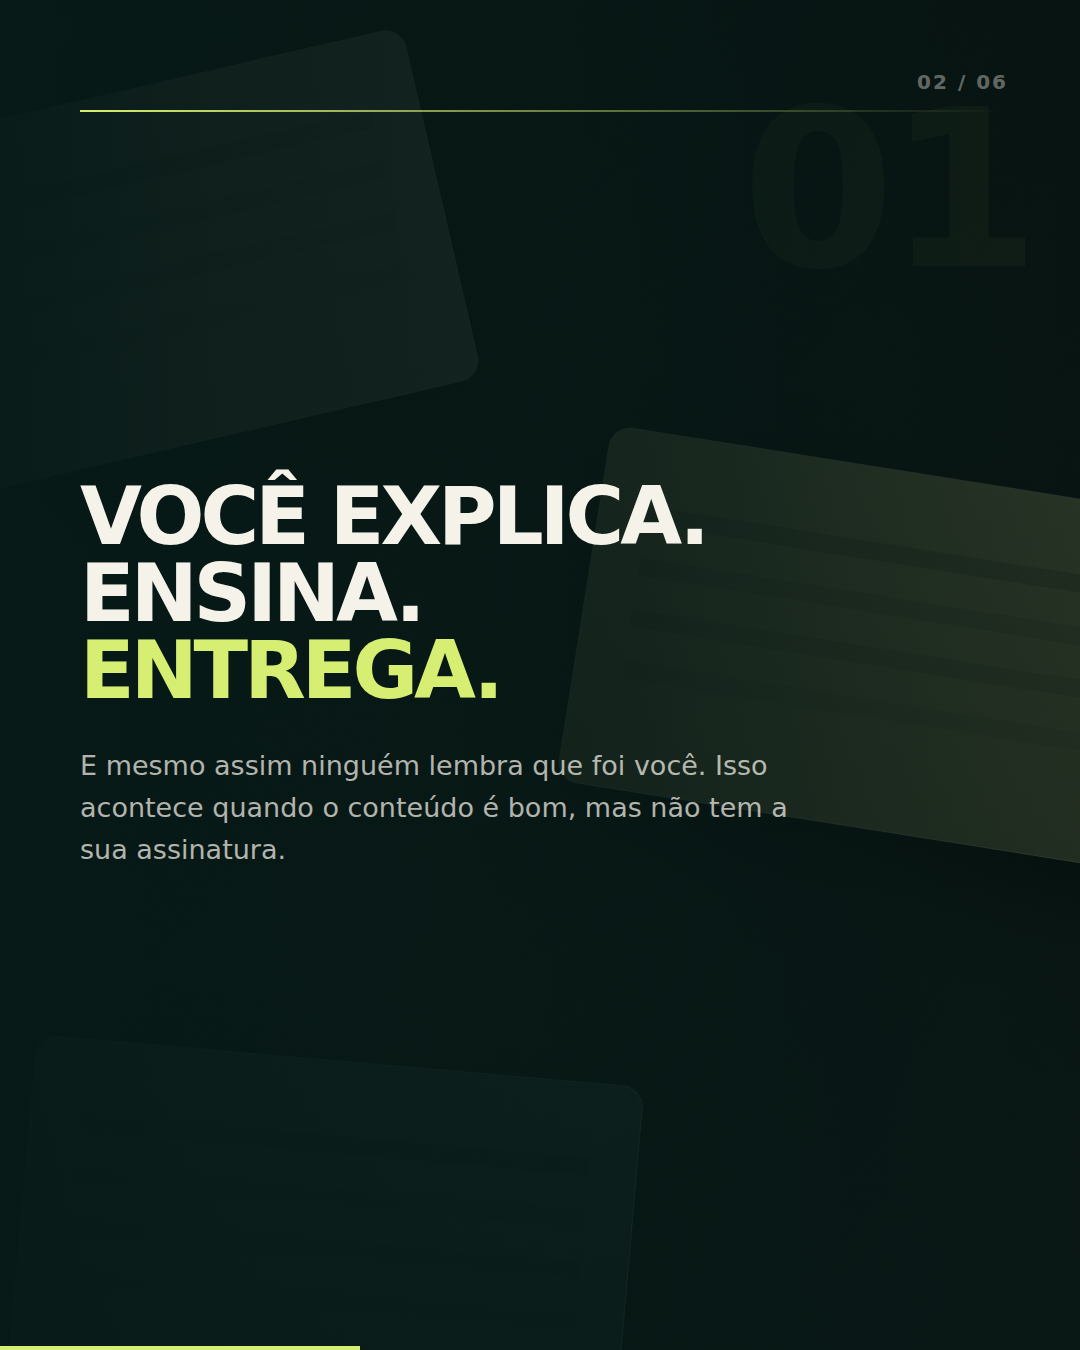
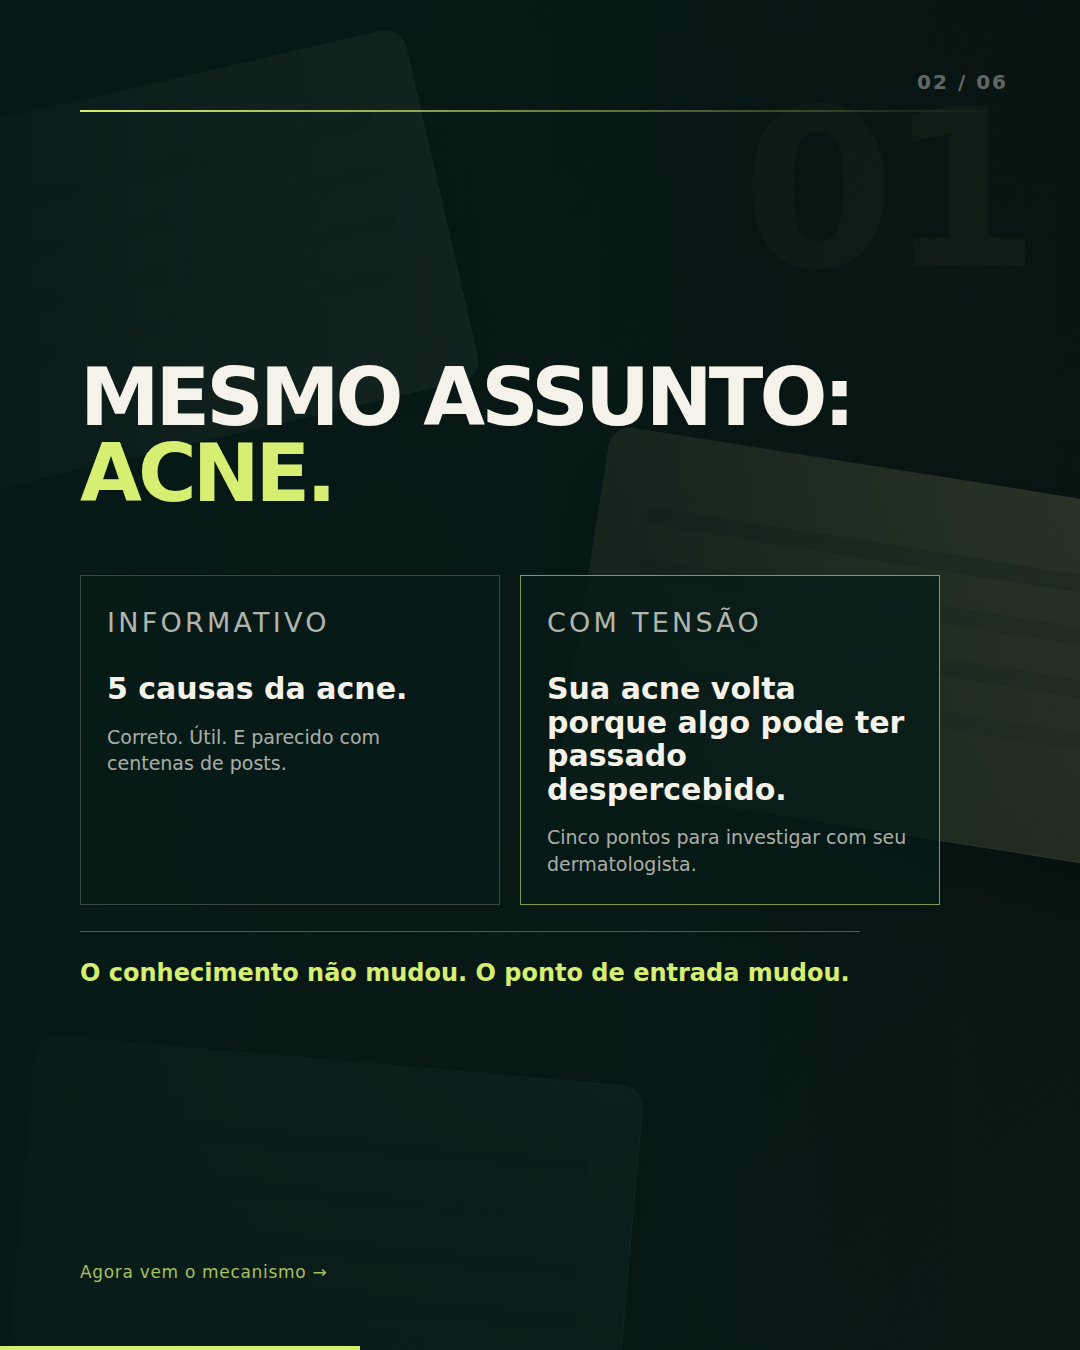
feat: adapta carrossel ao post de maior resposta

diff --git a/assets/posts/c3-carousel/slides.html b/assets/posts/c3-carousel/slides.html
@@ -58,7 +58,7 @@
   .cnt{position:relative;z-index:3;display:flex;flex-direction:column;height:100%}
 
   /* ─── SLIDE 1 — CAPA ─── */
-  #s1 .bg{background-image:url('../../media/generated/editorial-bg-04.png');filter:brightness(.46) saturate(.72)}
+  #s1 .bg{background-image:url('../../media/generated/editorial-bg-01.png');filter:brightness(.42) saturate(.72)}
   #s1 .overlay{background:linear-gradient(180deg,rgba(7,26,23,.08) 0%,rgba(7,26,23,.15) 30%,rgba(7,26,23,.88) 68%,#071a17 100%)}
   #s1 .lime-rule{bottom:230px}
   #s1 .cnt{justify-content:flex-end;padding:0 80px 100px}
@@ -114,9 +114,41 @@
   #s6 .lime-rule{top:115px}
   #s6 .cnt{justify-content:center;align-items:flex-start;padding:0 80px}
   #s6 .pergunta{font-family:MedSans,sans-serif;font-weight:900;font-size:88px;line-height:.95;letter-spacing:-4px;color:#d6ef72;text-transform:uppercase;margin-bottom:44px}
-  #s6 .resp{font-family:MedSans,sans-serif;font-size:27px;line-height:1.6;color:rgba(245,242,233,.72);max-width:740px;margin-bottom:60px}
+  #s6 .resp{font-family:MedSans,sans-serif;font-size:27px;line-height:1.6;color:rgba(245,242,233,.72);max-width:740px;margin-bottom:28px}
   #s6 .sig{font-family:MedSans,sans-serif;font-size:18px;letter-spacing:.04em;color:rgba(245,242,233,.72)}
   #s6 .sig strong{color:rgba(245,242,233,.8);font-weight:500}
+
+  /* Conteúdo denso, com progressão baseada no post de maior resposta pública da referência. */
+  .bullets{list-style:none;margin:28px 0 30px;display:grid;gap:14px;max-width:780px}
+  .bullets li{font-family:MedSans,sans-serif;font-size:24px;line-height:1.35;color:#f5f2e9;padding-left:34px;position:relative}
+  .bullets li::before{content:'•';position:absolute;left:4px;color:#d6ef72;font-weight:900}
+  .takeaway{font-family:MedSans,sans-serif;font-size:24px;line-height:1.45;color:#d6ef72;font-weight:700;max-width:780px;border-top:1px solid rgba(214,239,114,.35);padding-top:24px}
+  #s3 h3,#s4 h3,#s5 h3{font-size:68px}
+  .compare{display:grid;grid-template-columns:1fr 1fr;border:1px solid rgba(245,242,233,.26);max-width:850px;margin:10px 0 28px}
+  .compare div{font-family:MedSans,sans-serif;font-size:20px;line-height:1.25;color:rgba(245,242,233,.8);padding:16px 18px;border-bottom:1px solid rgba(245,242,233,.16)}
+  .compare div:nth-child(odd){border-right:1px solid rgba(245,242,233,.16);color:#d6ef72;font-weight:700}
+  .compare .head{font-size:16px;text-transform:uppercase;letter-spacing:.08em;color:#f5f2e9!important;background:rgba(245,242,233,.08)}
+  .leaks{display:grid;gap:18px;margin:28px 0 32px;max-width:790px}
+  .leak{display:grid;grid-template-columns:52px 1fr;align-items:center;gap:16px;font-family:MedSans,sans-serif;font-size:24px;line-height:1.35;color:#f5f2e9}
+  .leak b{display:grid;place-items:center;width:48px;height:48px;border:1px solid #d6ef72;border-radius:50%;color:#d6ef72;font-size:20px}
+  .system-grid{display:grid;grid-template-columns:1fr 1fr;gap:16px;max-width:840px;margin:20px 0 26px}
+  .system-card{background:rgba(7,26,23,.72);border:1px solid rgba(214,239,114,.3);padding:20px 22px;min-height:142px}
+  .system-card strong{display:block;font-family:MedSans,sans-serif;font-size:24px;color:#d6ef72;margin-bottom:8px}
+  .system-card span{font-family:MedSans,sans-serif;font-size:19px;line-height:1.35;color:rgba(245,242,233,.78)}
+  .versus{display:grid;grid-template-columns:1fr 1fr;gap:20px;max-width:860px;margin:26px 0}
+  .vcard{padding:26px;background:rgba(7,26,23,.76);border:1px solid rgba(245,242,233,.22);min-height:300px}
+  .vcard.good{border-color:rgba(214,239,114,.6)}
+  .vcard .vtag{font-family:MedSans,sans-serif;font-size:15px;letter-spacing:.12em;text-transform:uppercase;color:rgba(245,242,233,.55);margin-bottom:28px}
+  .vcard.good .vtag{color:#d6ef72}
+  .vcard strong{display:block;font-family:MedSans,sans-serif;font-size:30px;line-height:1.12;color:#f5f2e9}
+  .vcard span{display:block;font-family:MedSans,sans-serif;font-size:19px;line-height:1.4;color:rgba(245,242,233,.7);margin-top:18px}
+  .examples{display:grid;grid-template-columns:1fr 1.25fr;max-width:860px;border:1px solid rgba(245,242,233,.2);margin:22px 0 28px}
+  .examples div{font-family:MedSans,sans-serif;font-size:18px;line-height:1.3;padding:15px 17px;border-bottom:1px solid rgba(245,242,233,.14)}
+  .examples div:nth-child(odd){color:rgba(245,242,233,.55);border-right:1px solid rgba(245,242,233,.14)}
+  .examples div:nth-child(even){color:#f5f2e9}
+  .examples .head{font-size:14px;letter-spacing:.1em;text-transform:uppercase;color:#d6ef72!important;background:rgba(214,239,114,.06)}
+  .next-hint{position:absolute;left:80px;bottom:68px;font-family:MedSans,sans-serif;font-size:17px;letter-spacing:.04em;color:rgba(214,239,114,.78)}
+  .cta{font-family:MedSans,sans-serif;font-size:23px;line-height:1.4;font-weight:700;color:#d6ef72;max-width:760px;margin-bottom:40px}
 </style>
 </head>
 <body>
@@ -129,8 +161,8 @@
   <div class="num">01 / 06</div>
   <div class="cnt">
     <p class="label">MedCrivo · De médico para médico</p>
-    <h2>Você explica<br>bem. Mas<br><em>parece igual.</em></h2>
-    <p>Se qualquer médico poderia assinar, ninguém vai lembrar que foi você.</p>
+    <h2>Carrossel médico<br>que informa.<br><em>Vs. o que prende.</em></h2>
+    <p>Mesmo tema. Outra entrada. E uma diferença enorme na vontade de continuar.</p>
   </div>
   <div class="progress" style="width:16.6%"></div>
   <button style="opacity:.25;cursor:default">← anterior</button>
@@ -145,8 +177,13 @@
   <div class="lime-rule"></div>
   <div class="num">02 / 06</div>
   <div class="cnt">
-    <h3>Você explica.<br>Ensina.<br><em>Entrega.</em></h3>
-    <p>E mesmo assim ninguém lembra que foi você. Isso acontece quando o conteúdo é bom, mas não tem a sua assinatura.</p>
+    <h3>Mesmo assunto:<br><em>acne.</em></h3>
+    <div class="versus">
+      <div class="vcard"><p class="vtag">Informativo</p><strong>5 causas da acne.</strong><span>Correto. Útil. E parecido com centenas de posts.</span></div>
+      <div class="vcard good"><p class="vtag">Com tensão</p><strong>Sua acne volta porque algo pode ter passado despercebido.</strong><span>Cinco pontos para investigar com seu dermatologista.</span></div>
+    </div>
+    <div class="takeaway">O conhecimento não mudou. O ponto de entrada mudou.</div>
+    <div class="next-hint">Agora vem o mecanismo →</div>
   </div>
   <div class="progress" style="width:33.3%"></div>
   <button onclick="show(i-1)">← anterior</button>
@@ -160,8 +197,15 @@
   <div class="lime-rule"></div>
   <div class="num">03 / 06</div>
   <div class="cnt">
-    <h3>Qualquer<br>médico poderia<br><em>assinar.</em></h3>
-    <p>O problema não é a informação. É não deixar claro como você pensa, o que você defende e o que você faz diferente.</p>
+    <h3>Informação abre a aula.<br><em>Tensão abre uma história.</em></h3>
+    <div class="examples">
+      <div class="head">Entrada genérica</div><div class="head">Entrada que pede continuação</div>
+      <div>Benefícios do Botox</div><div>“Quando eu digo que Botox não é a melhor escolha.”</div>
+      <div>Sintomas de endometriose</div><div>“Se sua dor foi normalizada por anos, leia isto.”</div>
+      <div>Como dormir melhor</div><div>“Dorme oito horas e acorda exausto? Eu investigaria isto.”</div>
+    </div>
+    <div class="takeaway">As pessoas não avançam porque o tema é importante. Avançam porque o problema parece imediato.</div>
+    <div class="next-hint">Mas é no segundo slide que muita gente perde o leitor →</div>
   </div>
   <div class="progress" style="width:50%"></div>
   <button onclick="show(i-1)">← anterior</button>
@@ -175,9 +219,14 @@
   <div class="vline"></div>
   <div class="num">04 / 06</div>
   <div class="cnt">
-    <p class="tag">O que está acontecendo</p>
-    <h3>Toda semana<br>você troca<br>de assunto.</h3>
-    <p>Seu colega lê, concorda e segue a vida. Ele não associa seu nome a nada porque você nunca fica tempo suficiente na mesma ideia.</p>
+    <p class="tag">Onde a maioria perde o leitor</p>
+    <h3>O segundo slide do seu<br>carrossel precisa provar:</h3>
+    <div class="versus">
+      <div class="vcard"><p class="vtag">Fraco</p><strong>“Queda de cabelo é uma condição comum...”</strong><span>Você voltou a dar aula antes de criar interesse.</span></div>
+      <div class="vcard good"><p class="vtag">Forte</p><strong>“Seu cabelo cai há três meses. Você trocou shampoo, vitaminas, sérum. Continua caindo.”</strong><span>Agora existe um padrão a entender.</span></div>
+    </div>
+    <div class="takeaway">A pergunta do leitor é: “vale a pena continuar?”.</div>
+    <div class="next-hint">Quatro decisões ajudam a resposta ser “sim” →</div>
   </div>
   <div class="progress" style="width:66.6%"></div>
   <button onclick="show(i-1)">← anterior</button>
@@ -191,9 +240,15 @@
   <div class="lime-rule"></div>
   <div class="num">05 / 06</div>
   <div class="cnt">
-    <p class="tag">Antes de publicar</p>
-    <h3>Tire seu nome.<br>Ainda parece<br><em>seu?</em></h3>
-    <p>Se não parece, falta dizer como você pensa. Informação correta todo mundo tem. Ponto de vista é o que faz lembrar.</p>
+    <p class="tag">O que a versão forte faz melhor</p>
+    <h3>Quatro decisões.<br><em>Antes de publicar.</em></h3>
+    <div class="system-grid">
+      <div class="system-card"><strong>Problema real</strong><span>Soa como a dúvida que o paciente realmente traz.</span></div>
+      <div class="system-card"><strong>Curiosidade</strong><span>Abre uma pergunta antes de entregar a resposta.</span></div>
+      <div class="system-card"><strong>Ponto de vista</strong><span>Mostra como o médico interpreta: “eu investigaria isto primeiro”.</span></div>
+      <div class="system-card"><strong>Sequência</strong><span>Cada slide dá um motivo para ver o próximo.</span></div>
+    </div>
+    <div class="takeaway">A medicina pode ser a mesma. A experiência de leitura, não.</div>
   </div>
   <div class="progress" style="width:83.3%"></div>
   <button onclick="show(i-1)">← anterior</button>
@@ -207,8 +262,9 @@
   <div class="lime-rule"></div>
   <div class="num">06 / 06</div>
   <div class="cnt">
-    <p class="pergunta">Escolha<br>uma ideia.</p>
-    <p class="resp">Aquela que você quer que lembrem quando disserem seu nome. Depois fale dela até ficar impossível não fazer a associação.</p>
+    <p class="pergunta">Seu conhecimento<br>provavelmente não<br>é o problema.</p>
+    <p class="resp">O problema pode estar na embalagem. No MedCrivo, o conteúdo passa por três perguntas: existe tensão sem sensacionalismo? clareza sem promessa? sequência sem repetição?</p>
+    <p class="cta">Salve este carrossel e use as três perguntas antes do próximo post.</p>
     <p class="sig"><strong>Dr. Rafael Leão</strong> · MÉDICO · CRM-MG 96735<br>@medcrivo · #MedCrivo #ComunicacaoMedica</p>
   </div>
   <div class="progress" style="width:100%"></div>
